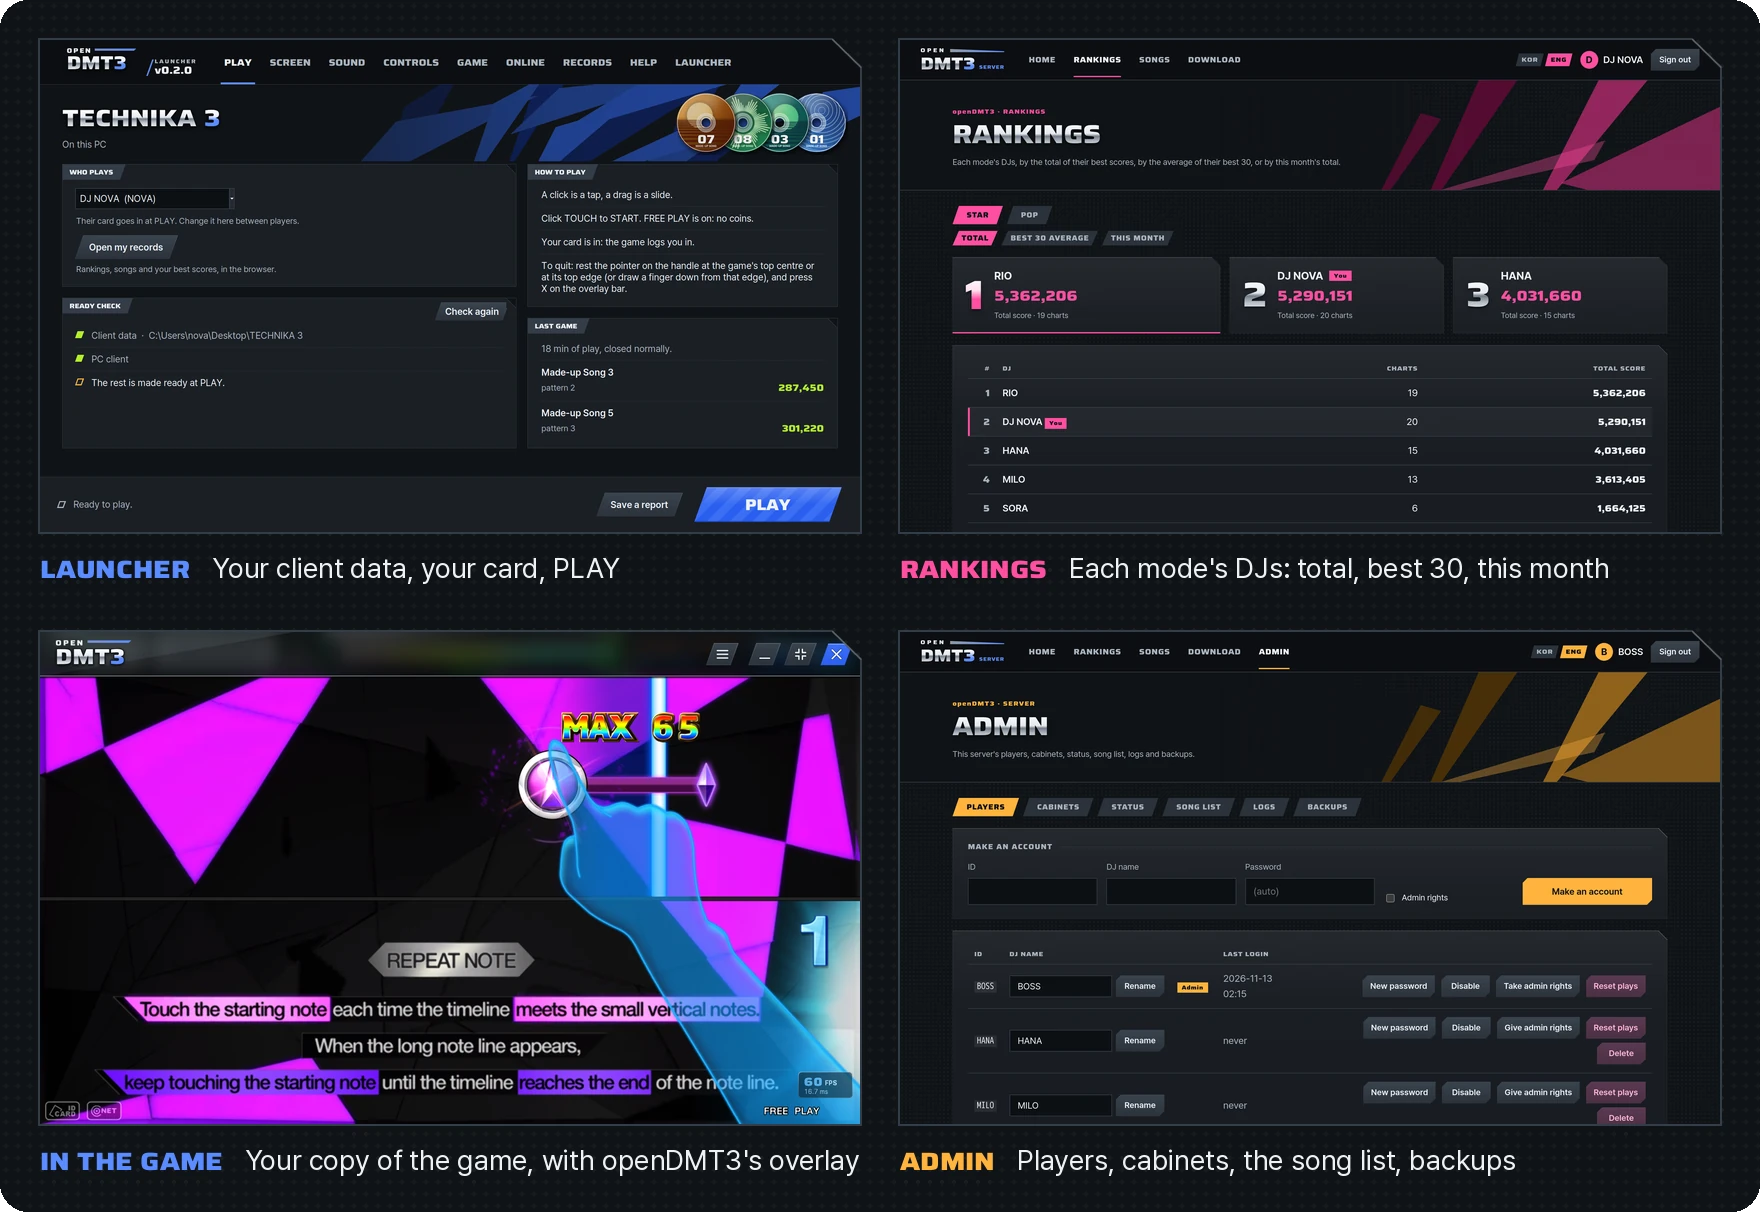
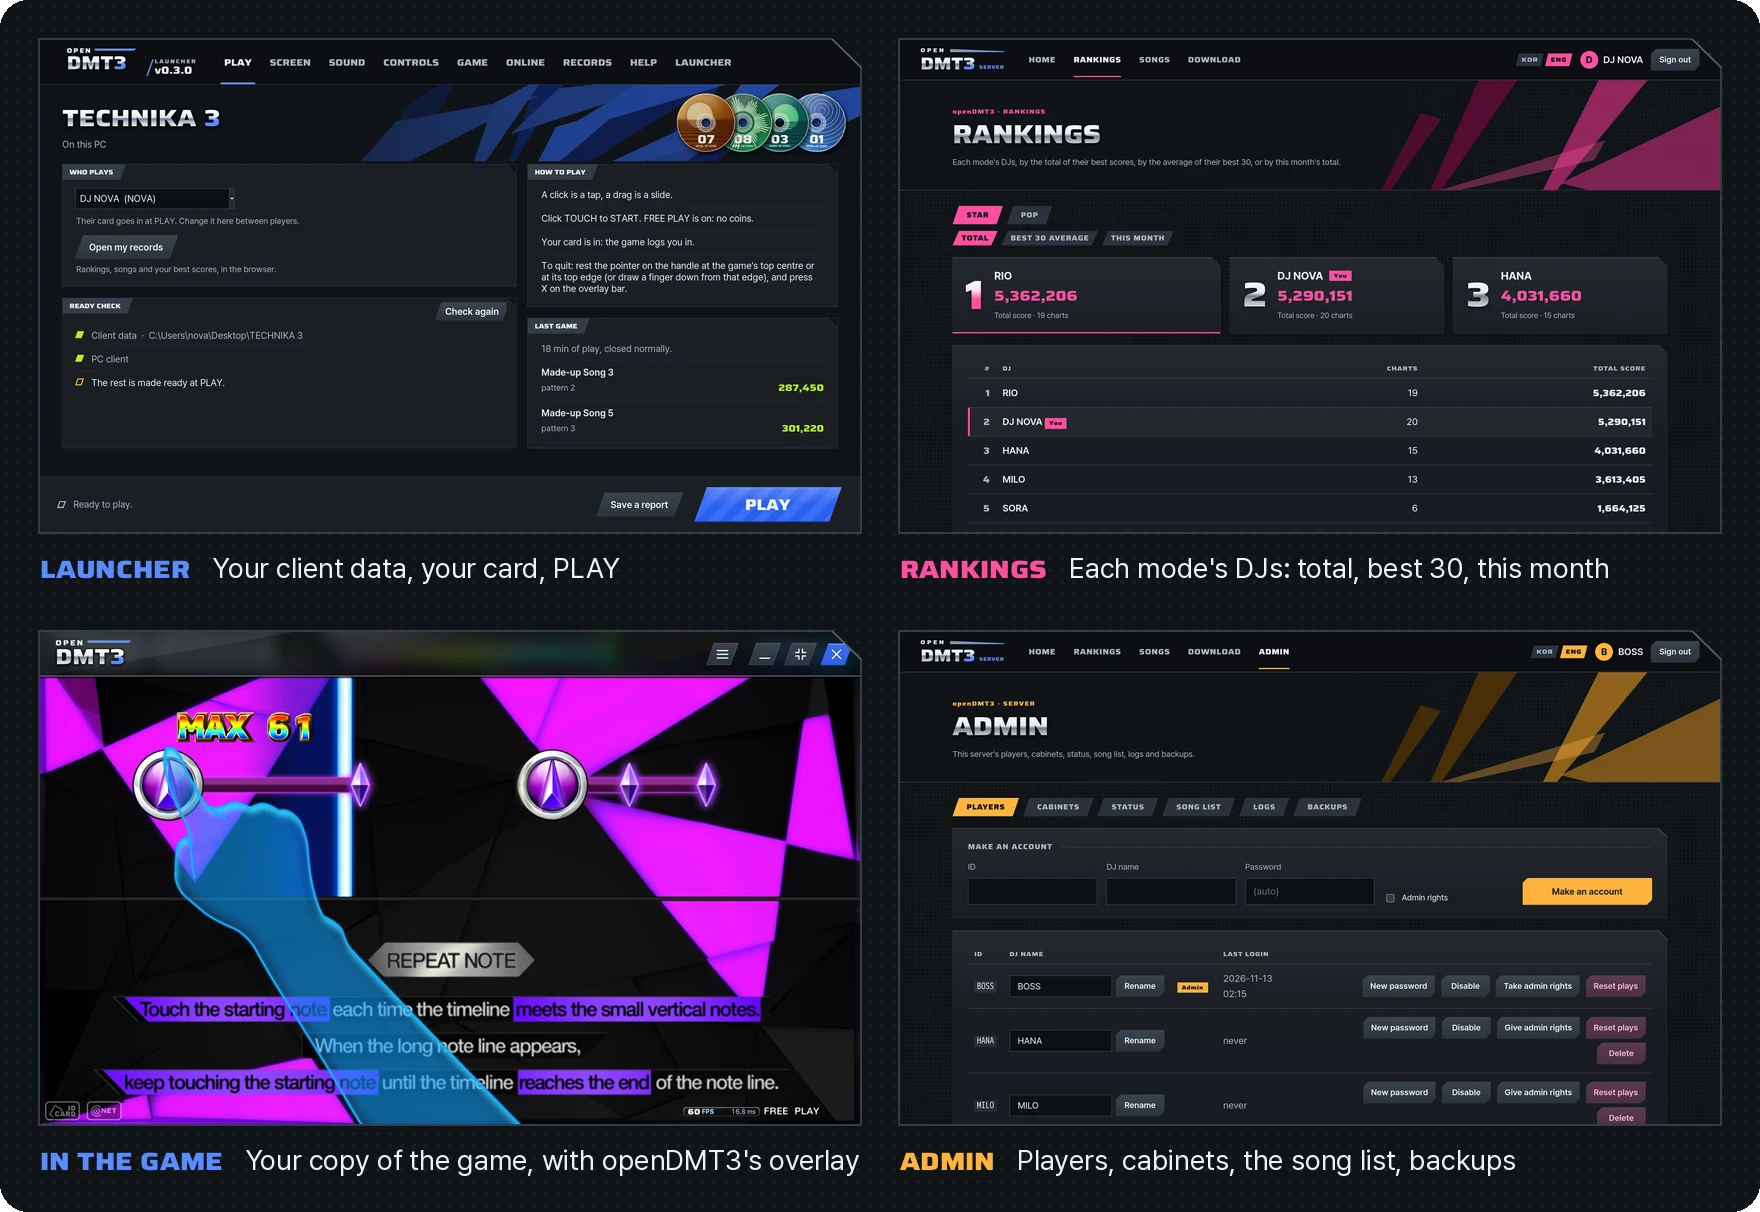
The in-game pictures are real frames of 0.3.0's overlay, and the launcher in them says v0.3.0
Shot again on this PC's graphics card with the release's own card reader library (_work/figures/ingame/real_shots.sh:
the game's tutorial and its title screen only). ingame.png has the menu hanging from the bar under its button, the quit
question under the X, a notice from the top edge of the title screen and the FPS counter on one line beside the game's
FREE PLAY, in a closer piece than the others so that its small words read. The README's showcase takes a frame of the
tutorial with the bar down and the counter at 60 FPS. The launcher's shots were taken before the version went up: shot
again, its name plate says v0.3.0 in the showcase and in DISC CHECK, the only pixels that changed. The alt texts say
what the new frames show.

diff --git a/README.md b/README.md
@@ -27,7 +27,7 @@
 </p>
 
 <p align="center">
-  <img src="docs/images/showcase.webp" alt="openDMT3 in four screens, with made-up players, songs and folders: the launcher's PLAY page with who plays, the ready check and the last game; the site's rankings, each mode's DJs by total score; the game's own tutorial with openDMT3's overlay bar and its FPS counter at 60 FPS, 16.7 ms; and the admin pages' Players tab" width="100%">
+  <img src="docs/images/showcase.webp" alt="openDMT3 in four screens, with made-up players, songs and folders: the launcher's PLAY page with who plays, the ready check and the last game; the site's rankings, each mode's DJs by total score; the game's own tutorial with openDMT3's overlay bar and its FPS counter at 60 FPS, 16.8 ms; and the admin pages' Players tab" width="100%">
 </p>
 
 **DJMAX TECHNIKA 3** is a touch-screen arcade rhythm game of 2011. openDMT3 plays your own copy of it on a Windows
@@ -90,7 +90,7 @@ The overlay bar comes down from the game's top edge: the menu, minimise, window 
 the menu and the question hold the game still.
 
 <p align="center">
-  <img src="docs/images/ingame.png" alt="openDMT3's overlay over TECHNIKA 3's tutorial, in real frames. The overlay bar across the top: openDMT3's mark at its left, and at its right the menu, minimize, back to a window, and quit. The menu hangs under its button: BACK TO THE GAME, SHOW FPS, QUIT THE GAME in red. Under it, three pieces of other frames: the quit question under the X, Quit the game?, with A play in progress is not kept., KEEP PLAYING and QUIT THE GAME; a notice hanging from the top edge, Picture quality lowered to keep 60 FPS (Smooth upscale); and the FPS counter at the bottom right beside the game's FREE PLAY, 60 FPS and 16.7 ms on one line" width="100%">
+  <img src="docs/images/ingame.png" alt="openDMT3's overlay over TECHNIKA 3's tutorial and title screen, in real frames. The overlay bar across the top: openDMT3's mark at its left, and at its right the menu, minimize, back to a window, and quit. The menu hangs from the bar under its button: BACK TO THE GAME, SHOW FPS ON, QUIT THE GAME in red. Under it, three pieces of other frames: the quit question hanging from the bar under the X, Quit the game?, with A play in progress is not kept., KEEP PLAYING and QUIT THE GAME; a notice hanging from the top edge of the title screen, Picture quality lowered to keep 60 FPS (Smooth upscale); and the FPS counter at the bottom right beside the game's FREE PLAY, 60 FPS and 16.8 ms on one line" width="100%">
 </p>
 
 ### Frames on time, and on the music

diff --git a/docs/install.md b/docs/install.md
@@ -110,7 +110,7 @@ tab, metal frame and glossy buttons), in the launcher's language. Nothing of it 
 the notes come, and no key of the keyboard brings it:
 
 <p align="center">
-  <img src="images/ingame.png" alt="openDMT3's overlay over TECHNIKA 3's tutorial, in real frames. The overlay bar across the top: openDMT3's mark at its left, and at its right the menu, minimize, back to a window, and quit. The menu hangs under its button: BACK TO THE GAME, SHOW FPS, QUIT THE GAME in red. Under it, three pieces of other frames: the quit question under the X, Quit the game?, with A play in progress is not kept., KEEP PLAYING and QUIT THE GAME; a notice hanging from the top edge, Picture quality lowered to keep 60 FPS (Smooth upscale); and the FPS counter at the bottom right beside the game's FREE PLAY, 60 FPS and 16.7 ms on one line" width="100%">
+  <img src="images/ingame.png" alt="openDMT3's overlay over TECHNIKA 3's tutorial and title screen, in real frames. The overlay bar across the top: openDMT3's mark at its left, and at its right the menu, minimize, back to a window, and quit. The menu hangs from the bar under its button: BACK TO THE GAME, SHOW FPS ON, QUIT THE GAME in red. Under it, three pieces of other frames: the quit question hanging from the bar under the X, Quit the game?, with A play in progress is not kept., KEEP PLAYING and QUIT THE GAME; a notice hanging from the top edge of the title screen, Picture quality lowered to keep 60 FPS (Smooth upscale); and the FPS counter at the bottom right beside the game's FREE PLAY, 60 FPS and 16.8 ms on one line" width="100%">
 </p>
 
 - **The overlay bar.** Let the pointer rest at the very top edge of the game, or on the handle at its top center (a

diff --git a/docs/architecture.md b/docs/architecture.md
@@ -312,7 +312,7 @@ first points) into the log, read from its memory in the PC build.
 ### The layer's parts and their input
 
 <p align="center">
-  <img src="images/ingame.png" alt="openDMT3's overlay over TECHNIKA 3's tutorial, in real frames. The overlay bar across the top: openDMT3's mark at its left, and at its right the menu, minimize, back to a window, and quit. The menu hangs under its button: BACK TO THE GAME, SHOW FPS, QUIT THE GAME in red. Under it, three pieces of other frames: the quit question under the X, Quit the game?, with A play in progress is not kept., KEEP PLAYING and QUIT THE GAME; a notice hanging from the top edge, Picture quality lowered to keep 60 FPS (Smooth upscale); and the FPS counter at the bottom right beside the game's FREE PLAY, 60 FPS and 16.7 ms on one line" width="100%">
+  <img src="images/ingame.png" alt="openDMT3's overlay over TECHNIKA 3's tutorial and title screen, in real frames. The overlay bar across the top: openDMT3's mark at its left, and at its right the menu, minimize, back to a window, and quit. The menu hangs from the bar under its button: BACK TO THE GAME, SHOW FPS ON, QUIT THE GAME in red. Under it, three pieces of other frames: the quit question hanging from the bar under the X, Quit the game?, with A play in progress is not kept., KEEP PLAYING and QUIT THE GAME; a notice hanging from the top edge of the title screen, Picture quality lowered to keep 60 FPS (Smooth upscale); and the FPS counter at the bottom right beside the game's FREE PLAY, 60 FPS and 16.8 ms on one line" width="100%">
 </p>
 
 - **The bar** comes when the pointer, moved to the game's very top edge or onto the mark at its top centre (the player's
